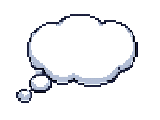
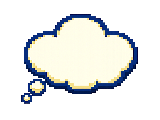
Edit bubble style and font

diff --git a/src/main.js b/src/main.js
@@ -304,7 +304,7 @@
           frameHeight: 16,
         });
         this.load.image("badge", "../assets/items/C7_delivery_app_icon_placeholder.png");
-        this.load.image("thought-bubble", "../assets/ui/D2_thought_bubble_frame.png");
+        this.load.image("thought-bubble", "../assets/ui/D2_thought_bubble_frame.png?v=20260215bubblev2");
         this.load.image("hud-heart", "../assets/ui/hp_heart_pixel.png");
       }
 
@@ -391,14 +391,14 @@
         this.jumpBubbleText = this.add
           .text(0, 0, "我是奶龙", {
             fontFamily: '"Microsoft YaHei","PingFang SC","Noto Sans SC",sans-serif',
-            fontStyle: "900",
-            color: "#ffd84d",
-            stroke: "#7a2d00",
-            strokeThickness: 4,
+            fontStyle: "800",
+            color: "#1a1a1a",
+            stroke: "#fff7d1",
+            strokeThickness: 3,
             shadow: {
               offsetX: 1,
               offsetY: 1,
-              color: "#2a1300",
+              color: "#1a1a1a",
               blur: 0,
               stroke: true,
               fill: true,
@@ -434,11 +434,11 @@
 
         const textBoxWidth = bubbleWidth * 0.6;
         const textBoxHeight = targetBubbleHeight * 0.4;
-        const fontSize = Math.max(12, Math.round(targetBubbleHeight * 0.16));
-        const strokeThickness = Math.max(2, Math.round(targetBubbleHeight * 0.045));
+        const fontSize = Math.max(13, Math.round(targetBubbleHeight * 0.18));
+        const strokeThickness = Math.max(2, Math.round(targetBubbleHeight * 0.032));
 
         this.jumpBubbleText.setFontSize(fontSize);
-        this.jumpBubbleText.setStroke("#7a2d00", strokeThickness);
+        this.jumpBubbleText.setStroke("#fff7d1", strokeThickness);
         this.jumpBubbleText.setWordWrapWidth(textBoxWidth, true);
         this.jumpBubbleText.setFixedSize(textBoxWidth, textBoxHeight);
         this.jumpBubbleText.setPosition(bubbleX + bubbleWidth * 0.04, bubbleY - targetBubbleHeight * 0.02);
